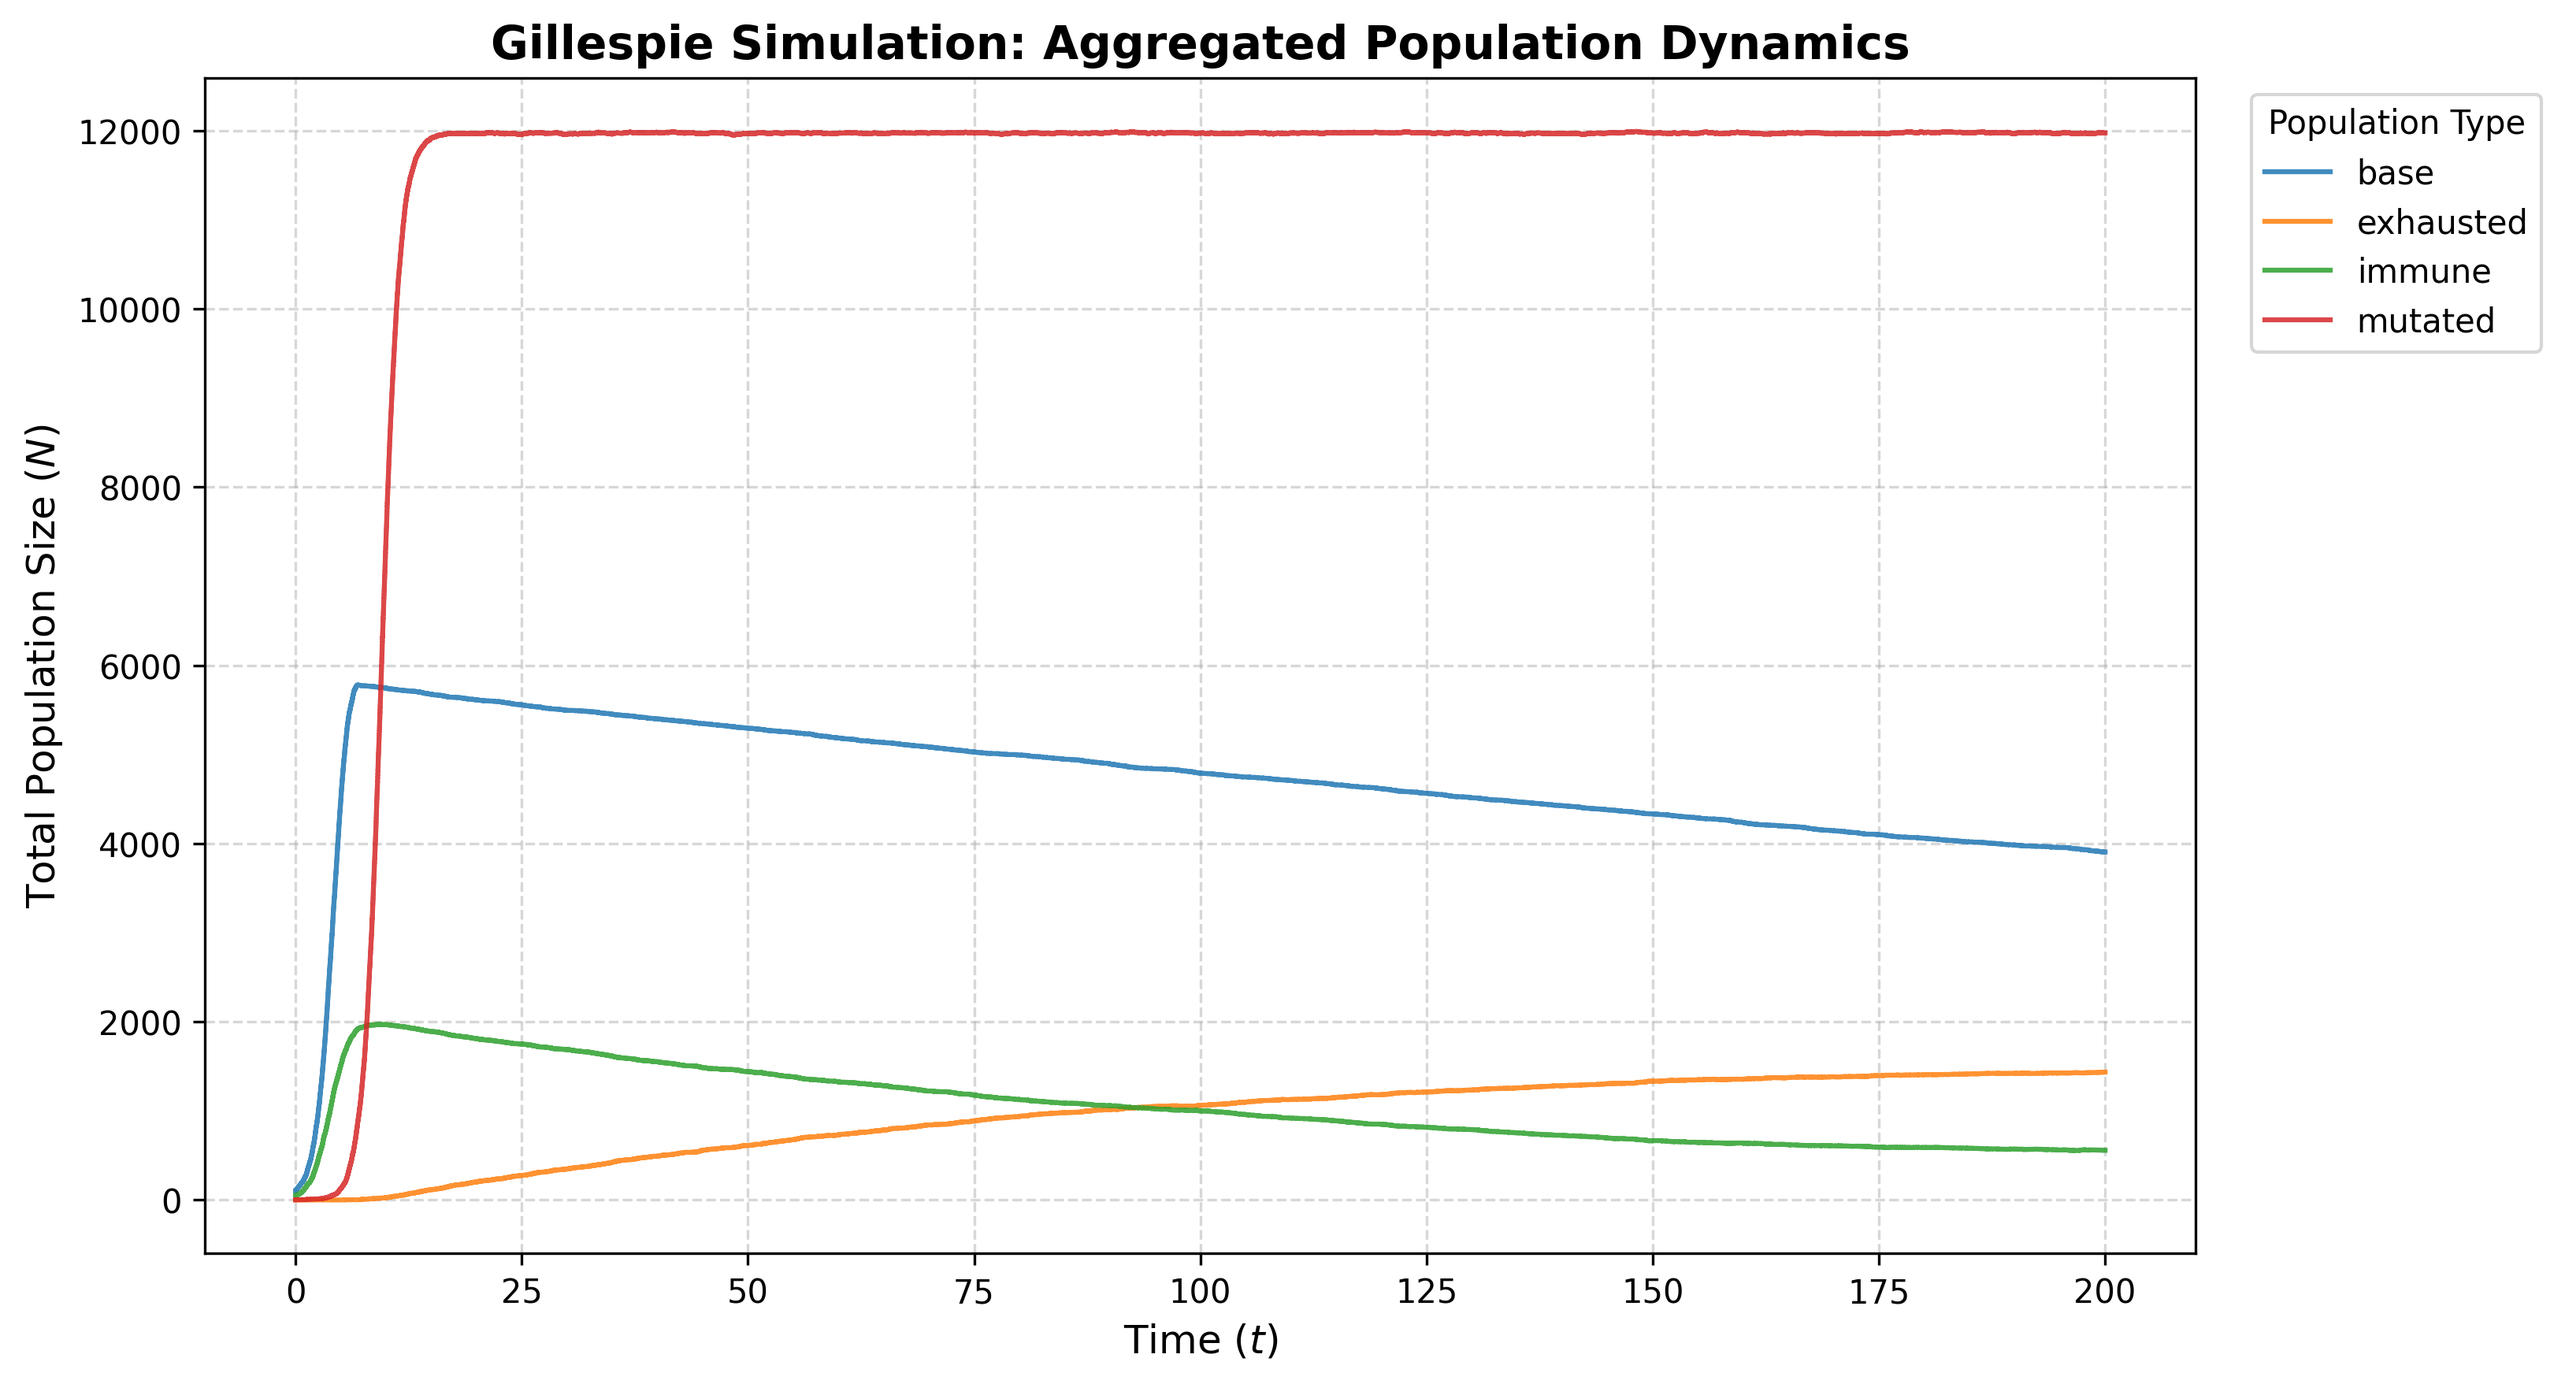
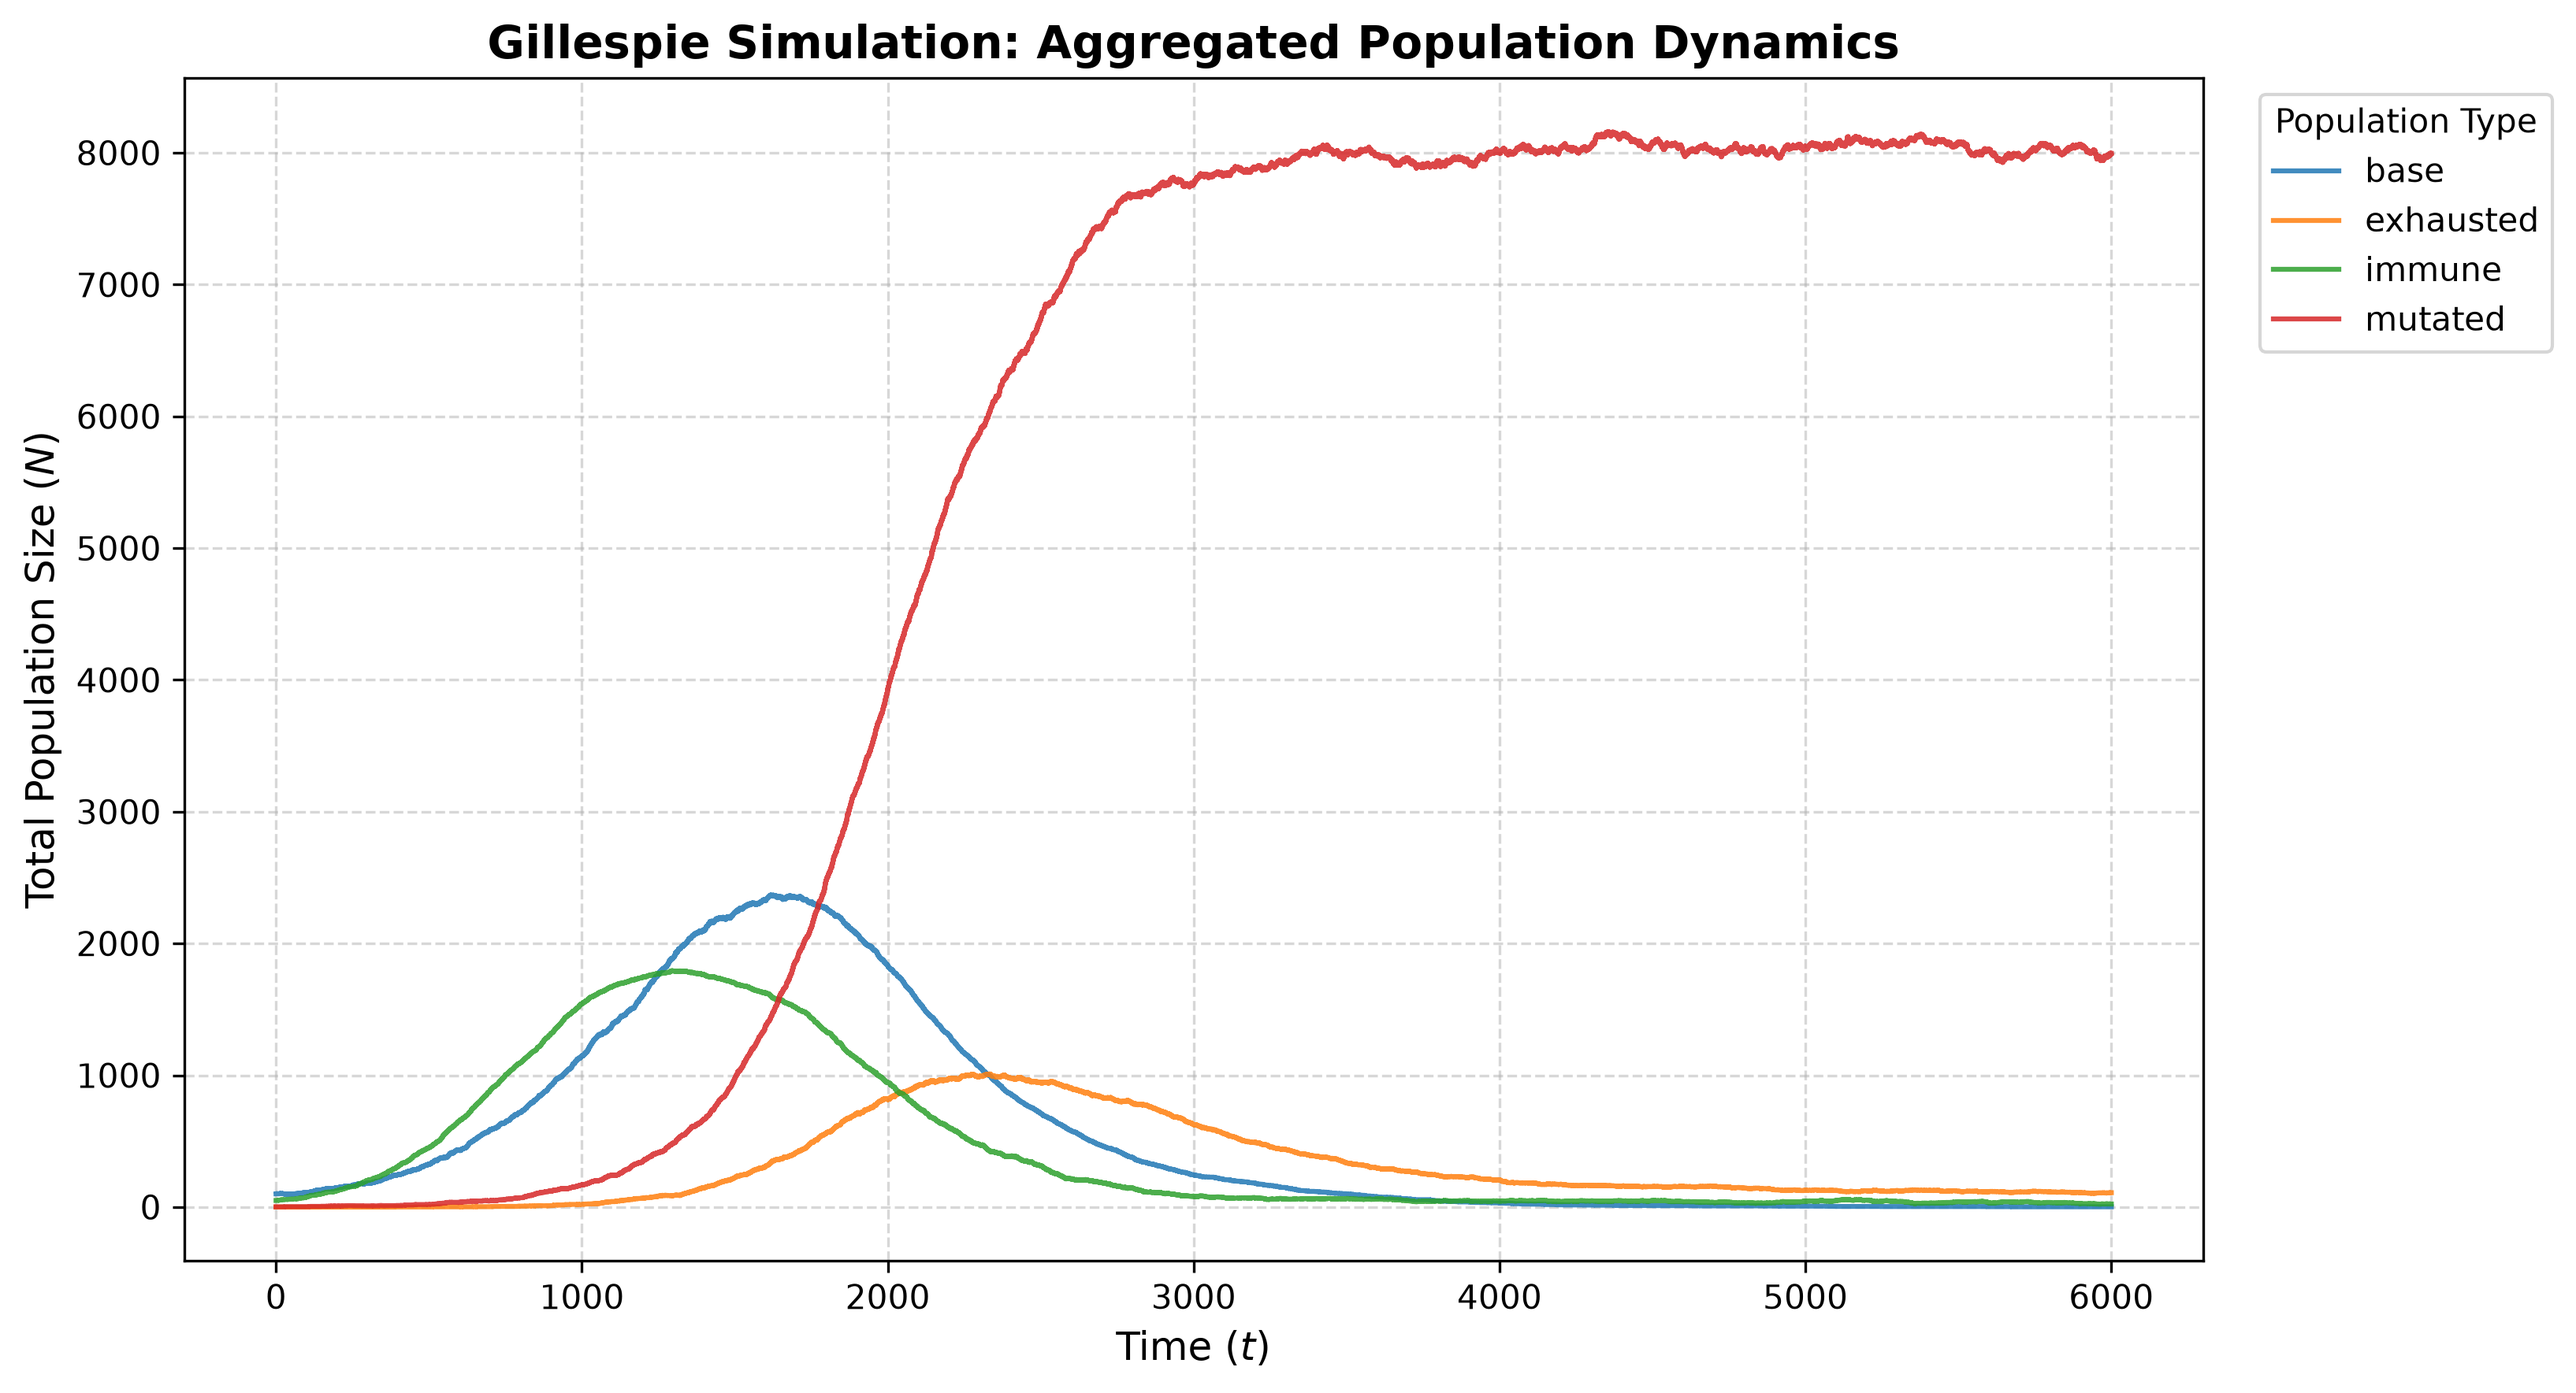
BUG FIX: was not multiplying birth events by birthrate...

diff --git a/src/gillespie/clone.py b/src/gillespie/clone.py
@@ -62,7 +62,7 @@ class Clone:
         return 1.0 + self.instability
     #BUG: related to bug in tumor_simulation.py ahora mismo el birth rate va por tipo y no por clon. lo cual esta double counting 
     def birth_rate_effective(self,tissue_state: "TissueState") -> float:
-        return self.N * self.config.crowding_strategy.crowding(self,tissue_state=tissue_state)
+        return self.birth_rate * self.N * self.config.crowding_strategy.crowding(self,tissue_state=tissue_state) #NO ESTABA MULTIPLICANDO POR EL BIRTH RATE!!!
 
     def death_rate_effective(self,tissue_state: "TissueState") -> float:
         return self.death_rate * self.N

diff --git a/src/gillespie/simulation_config.py b/src/gillespie/simulation_config.py
@@ -22,7 +22,7 @@ _DEFAULT_CELL_PARAMETERS = {
         default_id= (),
         N=100,
         K=1,
-        nu=0.000002,
+        nu=0.00002,
         next_mutation= "mutated"
     ),
     "immune": CellTypeConfig(
@@ -57,7 +57,7 @@ class SimulationConfig:
    
  
     # simulation control
-    T_max: float = 200
+    T_max: float = 6000
     seed: Optional[int] = None
 
    

diff --git a/src/gillespie/infrastructure/cli.py b/src/gillespie/infrastructure/cli.py
@@ -25,6 +25,7 @@ def main() -> None:
 
     sim = TumorSimulation(config=config)
     input("press any key to continue")
+    print("Starting...")
     #TODO: mover los writers a dentro del simulador
     times, history, tissue_state,rates_history = sim.run()
 # las mierdas que tengo que hacer para guardar un csv son locas. 
